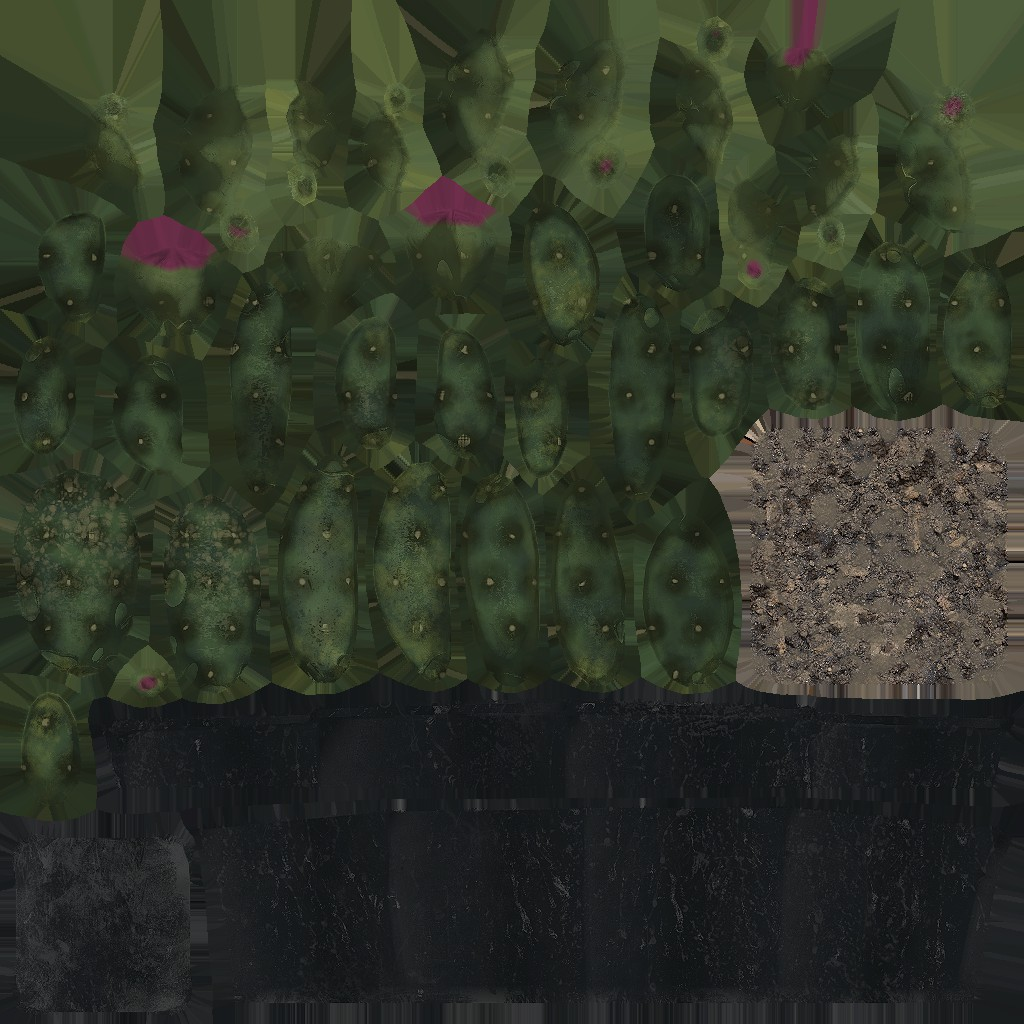
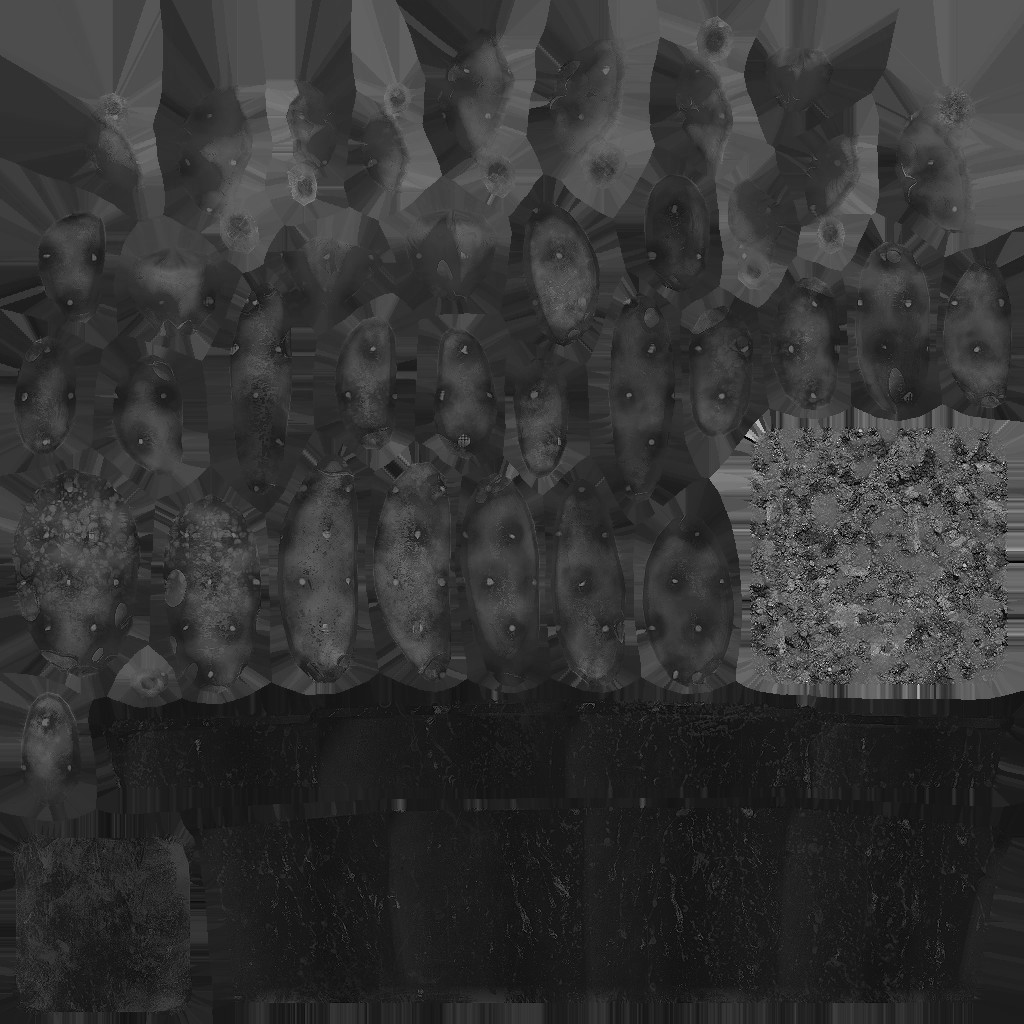
Changed Materials & Prevent Camera Transition
- Adjusted some materials to comply with the camera filter
- Prevent player from changing the camera destination while the camera is transitioning

diff --git a/Assets/Scripts/CameraController.cs b/Assets/Scripts/CameraController.cs
@@ -65,9 +65,8 @@ public class CameraController : MonoBehaviour
     
     private void StationRight_started(InputAction.CallbackContext obj)
     {
-        if (paused == false)
+        if (!paused && !_cinemachineBrain.IsBlending)
         {
-
             //moves camera to the one on the right and keeps track of the active camera
             if (activecamera == 1 && _canMove == true)
             {
@@ -103,7 +102,7 @@ public class CameraController : MonoBehaviour
 
     private void StationLeft_started(InputAction.CallbackContext obj)
     {
-        if (paused == false)
+        if (!paused && !_cinemachineBrain.IsBlending)
         {
             //same as above but for the right
             if (activecamera == 2 && _canMove == true)
